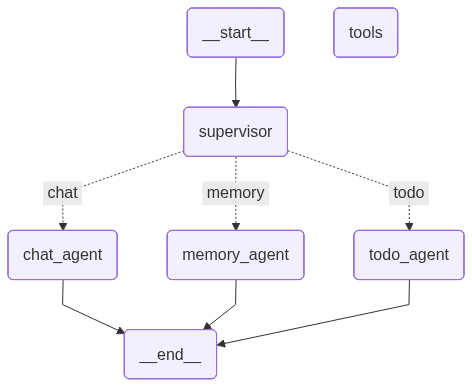
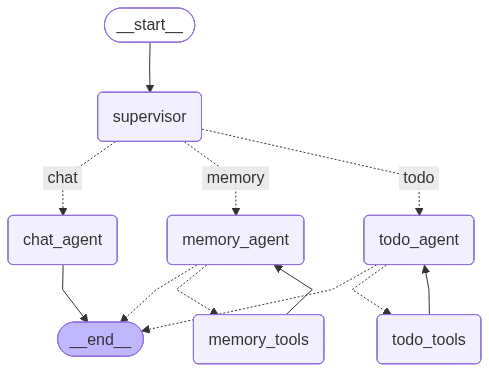
version 5 - Tools Segregation

diff --git a/graph.py b/graph.py
@@ -28,9 +28,12 @@ class AgentState(TypedDict):
     route: str
 
 
-tools = [
+todo_tools = [
     add_todo,
-    show_todos,
+    show_todos
+]
+
+memory_tools = [
     remember,
     recall_memories
 ]
@@ -41,7 +44,9 @@ llm = ChatGroq(
     api_key=os.getenv("GROQ_API_KEY")
 )
 
-llm_with_tools = llm.bind_tools(tools)
+todo_llm = llm.bind_tools(todo_tools)
+
+memory_llm = llm.bind_tools(memory_tools)
 
 
 def supervisor(state: AgentState):
@@ -86,7 +91,7 @@ def todo_agent(state: AgentState):
         )
     ] + state["messages"]
 
-    response = llm_with_tools.invoke(messages)
+    response = todo_llm.invoke(messages)
 
     return {
         "messages": [response]
@@ -107,7 +112,7 @@ def memory_agent(state: AgentState):
         )
     ] + state["messages"]
 
-    response = llm_with_tools.invoke(messages)
+    response = memory_llm.invoke(messages)
 
     return {
         "messages": [response]
@@ -125,29 +130,45 @@ def chat_agent(state: AgentState):
     }
 
 
-tool_node = ToolNode(tools)
+todo_tool_node = ToolNode(todo_tools)
+
+memory_tool_node = ToolNode(memory_tools)
 
 
 def route_agent(state: AgentState):
     return state["route"]
 
 
-def should_continue(state: AgentState):
+def todo_router(state: AgentState):
 
     last_message = state["messages"][-1]
 
-    print("\n========== ROUTER ==========")
-    print(last_message)
+    print("\nTODO ROUTER")
 
     if getattr(last_message, "tool_calls", None):
-        print("GO TO TOOLS")
-        return "tools"
+        print("GO TO TODO TOOLS")
+        return "todo_tools"
 
-    print("END GRAPH")
+    print("END")
+    return END
+
+
+def memory_router(state: AgentState):
+
+    last_message = state["messages"][-1]
+
+    print("\nMEMORY ROUTER")
+
+    if getattr(last_message, "tool_calls", None):
+        print("GO TO MEMORY TOOLS")
+        return "memory_tools"
+
+    print("END")
     return END
 
 
 graph_builder = StateGraph(AgentState)
+
 
 graph_builder.add_node(
     "supervisor",
@@ -170,13 +191,20 @@ graph_builder.add_node(
 )
 
 graph_builder.add_node(
-    "tools",
-    tool_node
+    "todo_tools",
+    todo_tool_node
 )
+
+graph_builder.add_node(
+    "memory_tools",
+    memory_tool_node
+)
+
 
 graph_builder.set_entry_point(
     "supervisor"
 )
+
 
 graph_builder.add_conditional_edges(
     "supervisor",
@@ -188,24 +216,34 @@ graph_builder.add_conditional_edges(
     }
 )
 
+
 graph_builder.add_conditional_edges(
     "todo_agent",
-    should_continue
+    todo_router,
+    {
+        "todo_tools": "todo_tools",
+        END: END
+    }
 )
 
 graph_builder.add_conditional_edges(
     "memory_agent",
-    should_continue
+    memory_router,
+    {
+        "memory_tools": "memory_tools",
+        END: END
+    }
 )
 
-graph_builder.add_edge(
-    "tools",
-    "memory_agent"
-)
 
 graph_builder.add_edge(
-    "tools",
+    "todo_tools",
     "todo_agent"
+)
+
+graph_builder.add_edge(
+    "memory_tools",
+    "memory_agent"
 )
 
 graph_builder.add_edge(
@@ -213,18 +251,21 @@ graph_builder.add_edge(
     END
 )
 
+
 memory = MemorySaver()
 
 graph = graph_builder.compile(
     checkpointer=memory
 )
-mermaid = graph.get_graph().draw_mermaid()
 
-print(mermaid)
 
-png = graph.get_graph().draw_mermaid_png()
+if __name__ == "__main__":
 
-with open("graph.png", "wb") as f:
-    f.write(png)
+    print(graph.get_graph().draw_mermaid())
 
-print("Saved graph.png")
+    png = graph.get_graph().draw_mermaid_png()
+
+    with open("graph.png", "wb") as f:
+        f.write(png)
+
+    print("graph.png saved")
